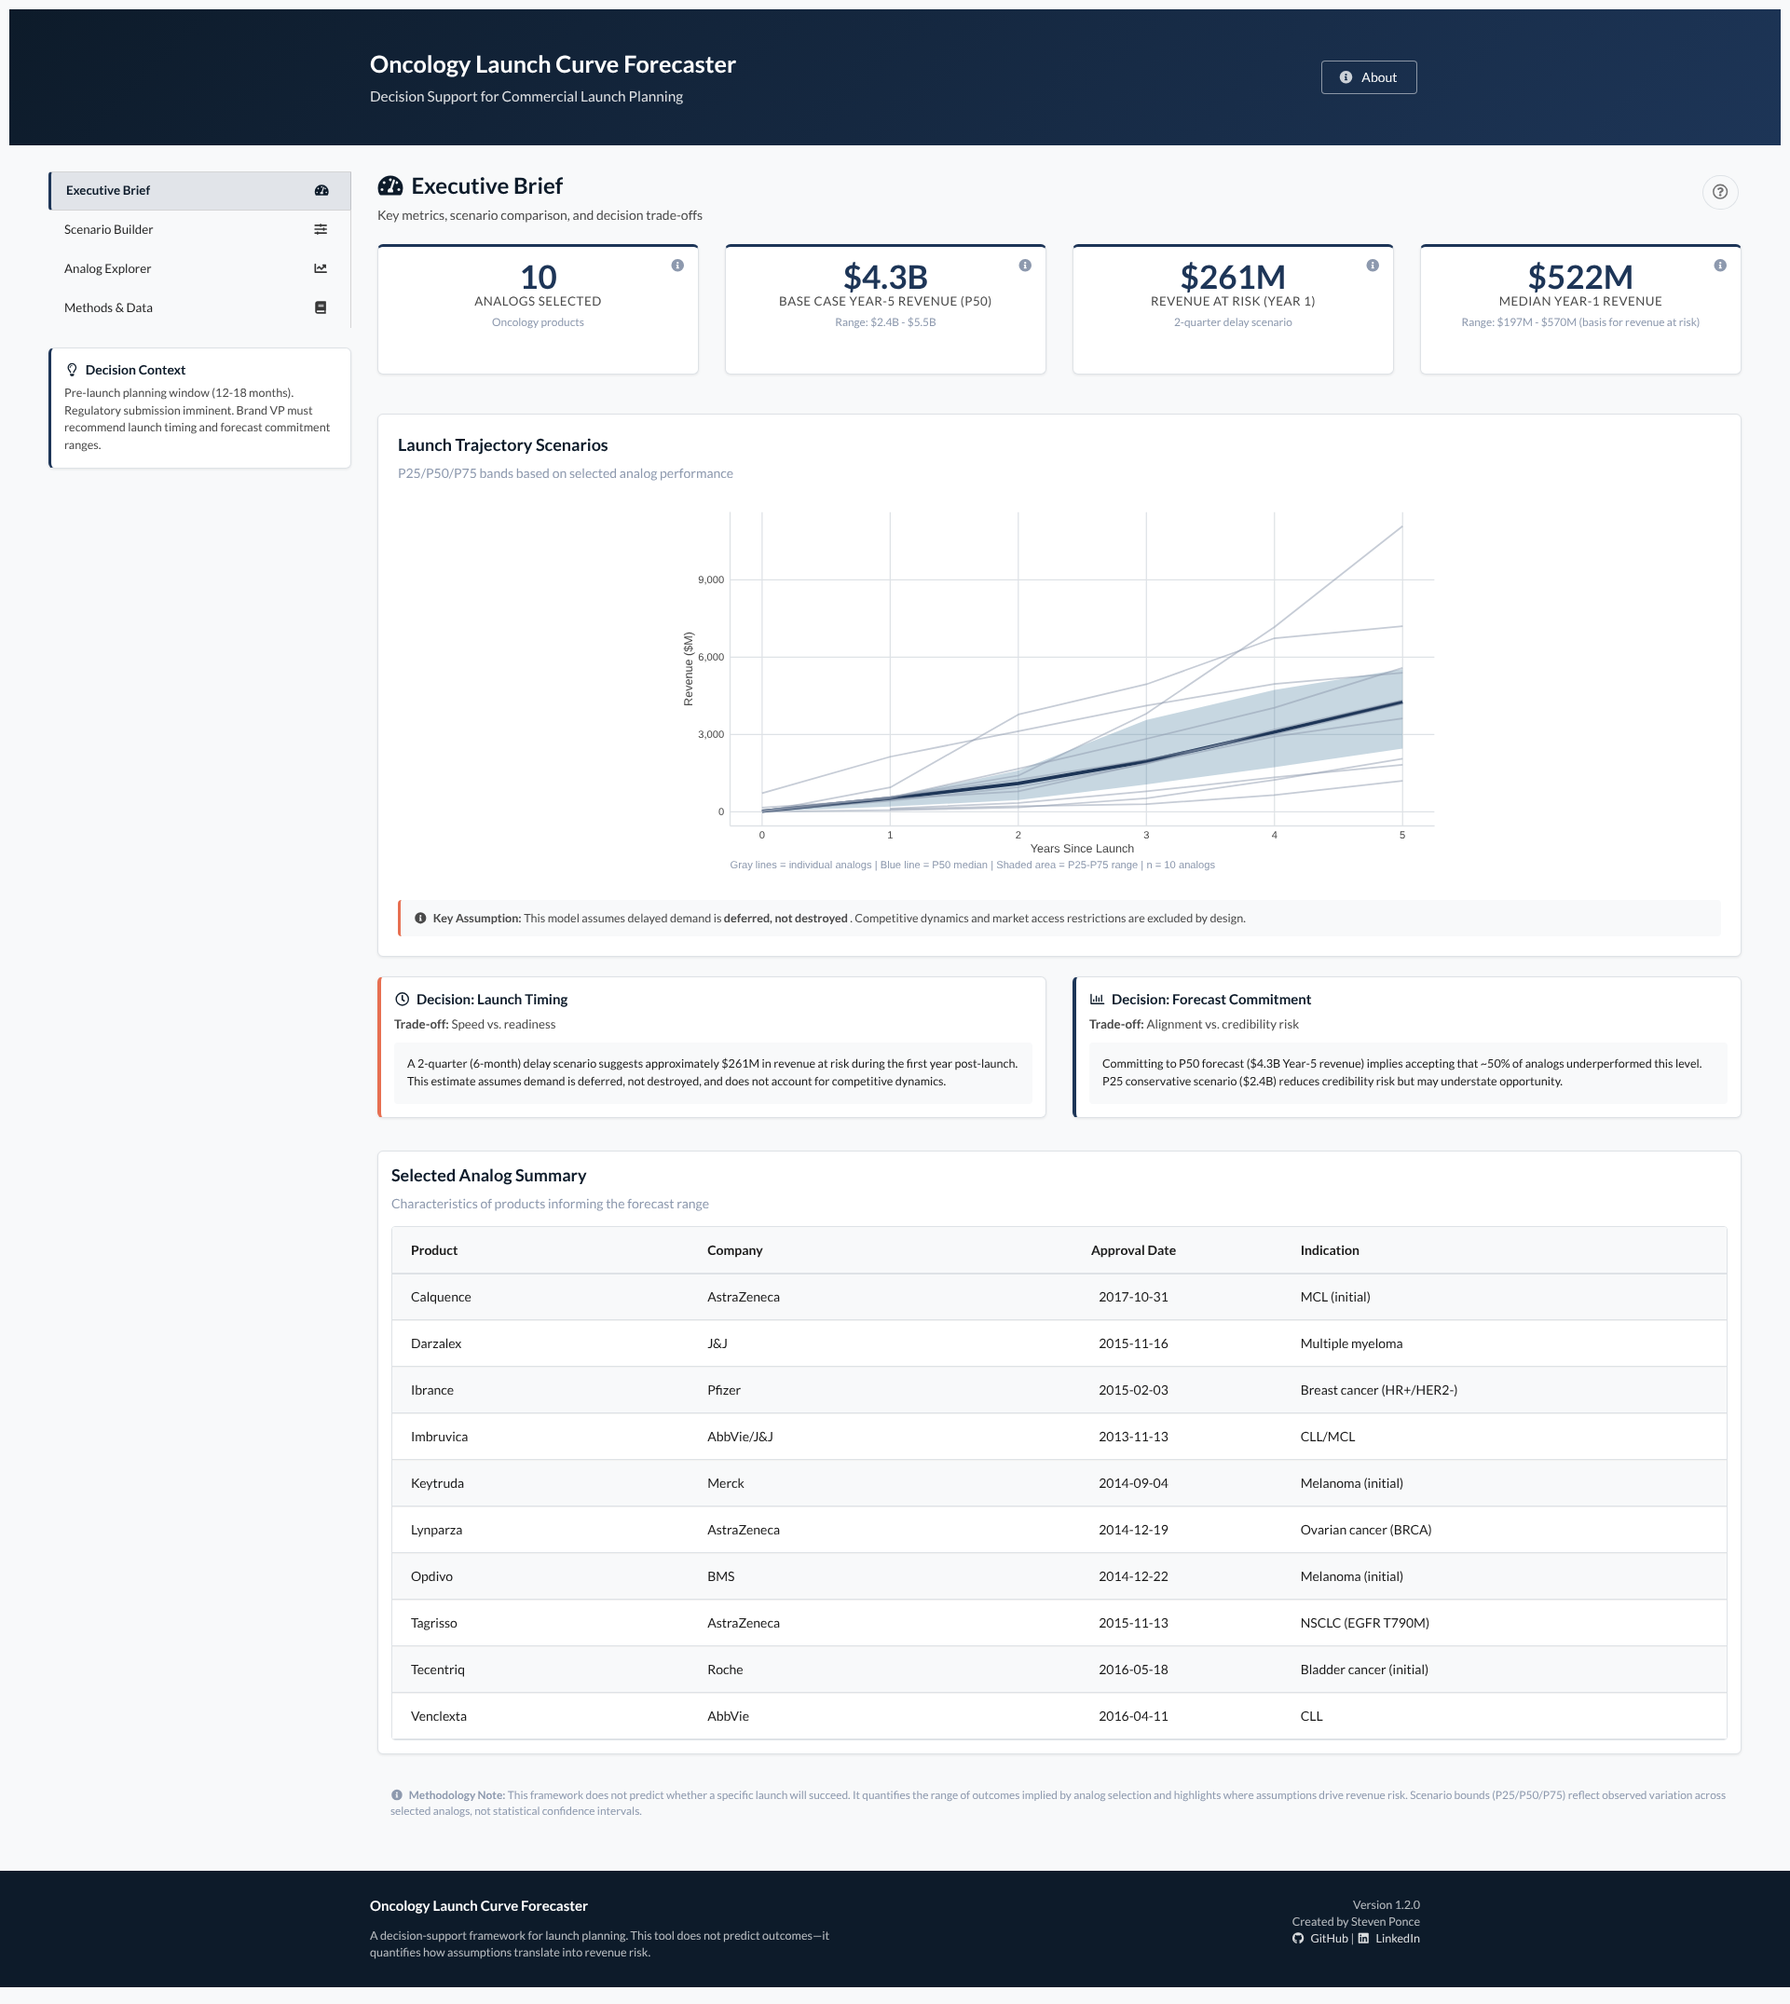
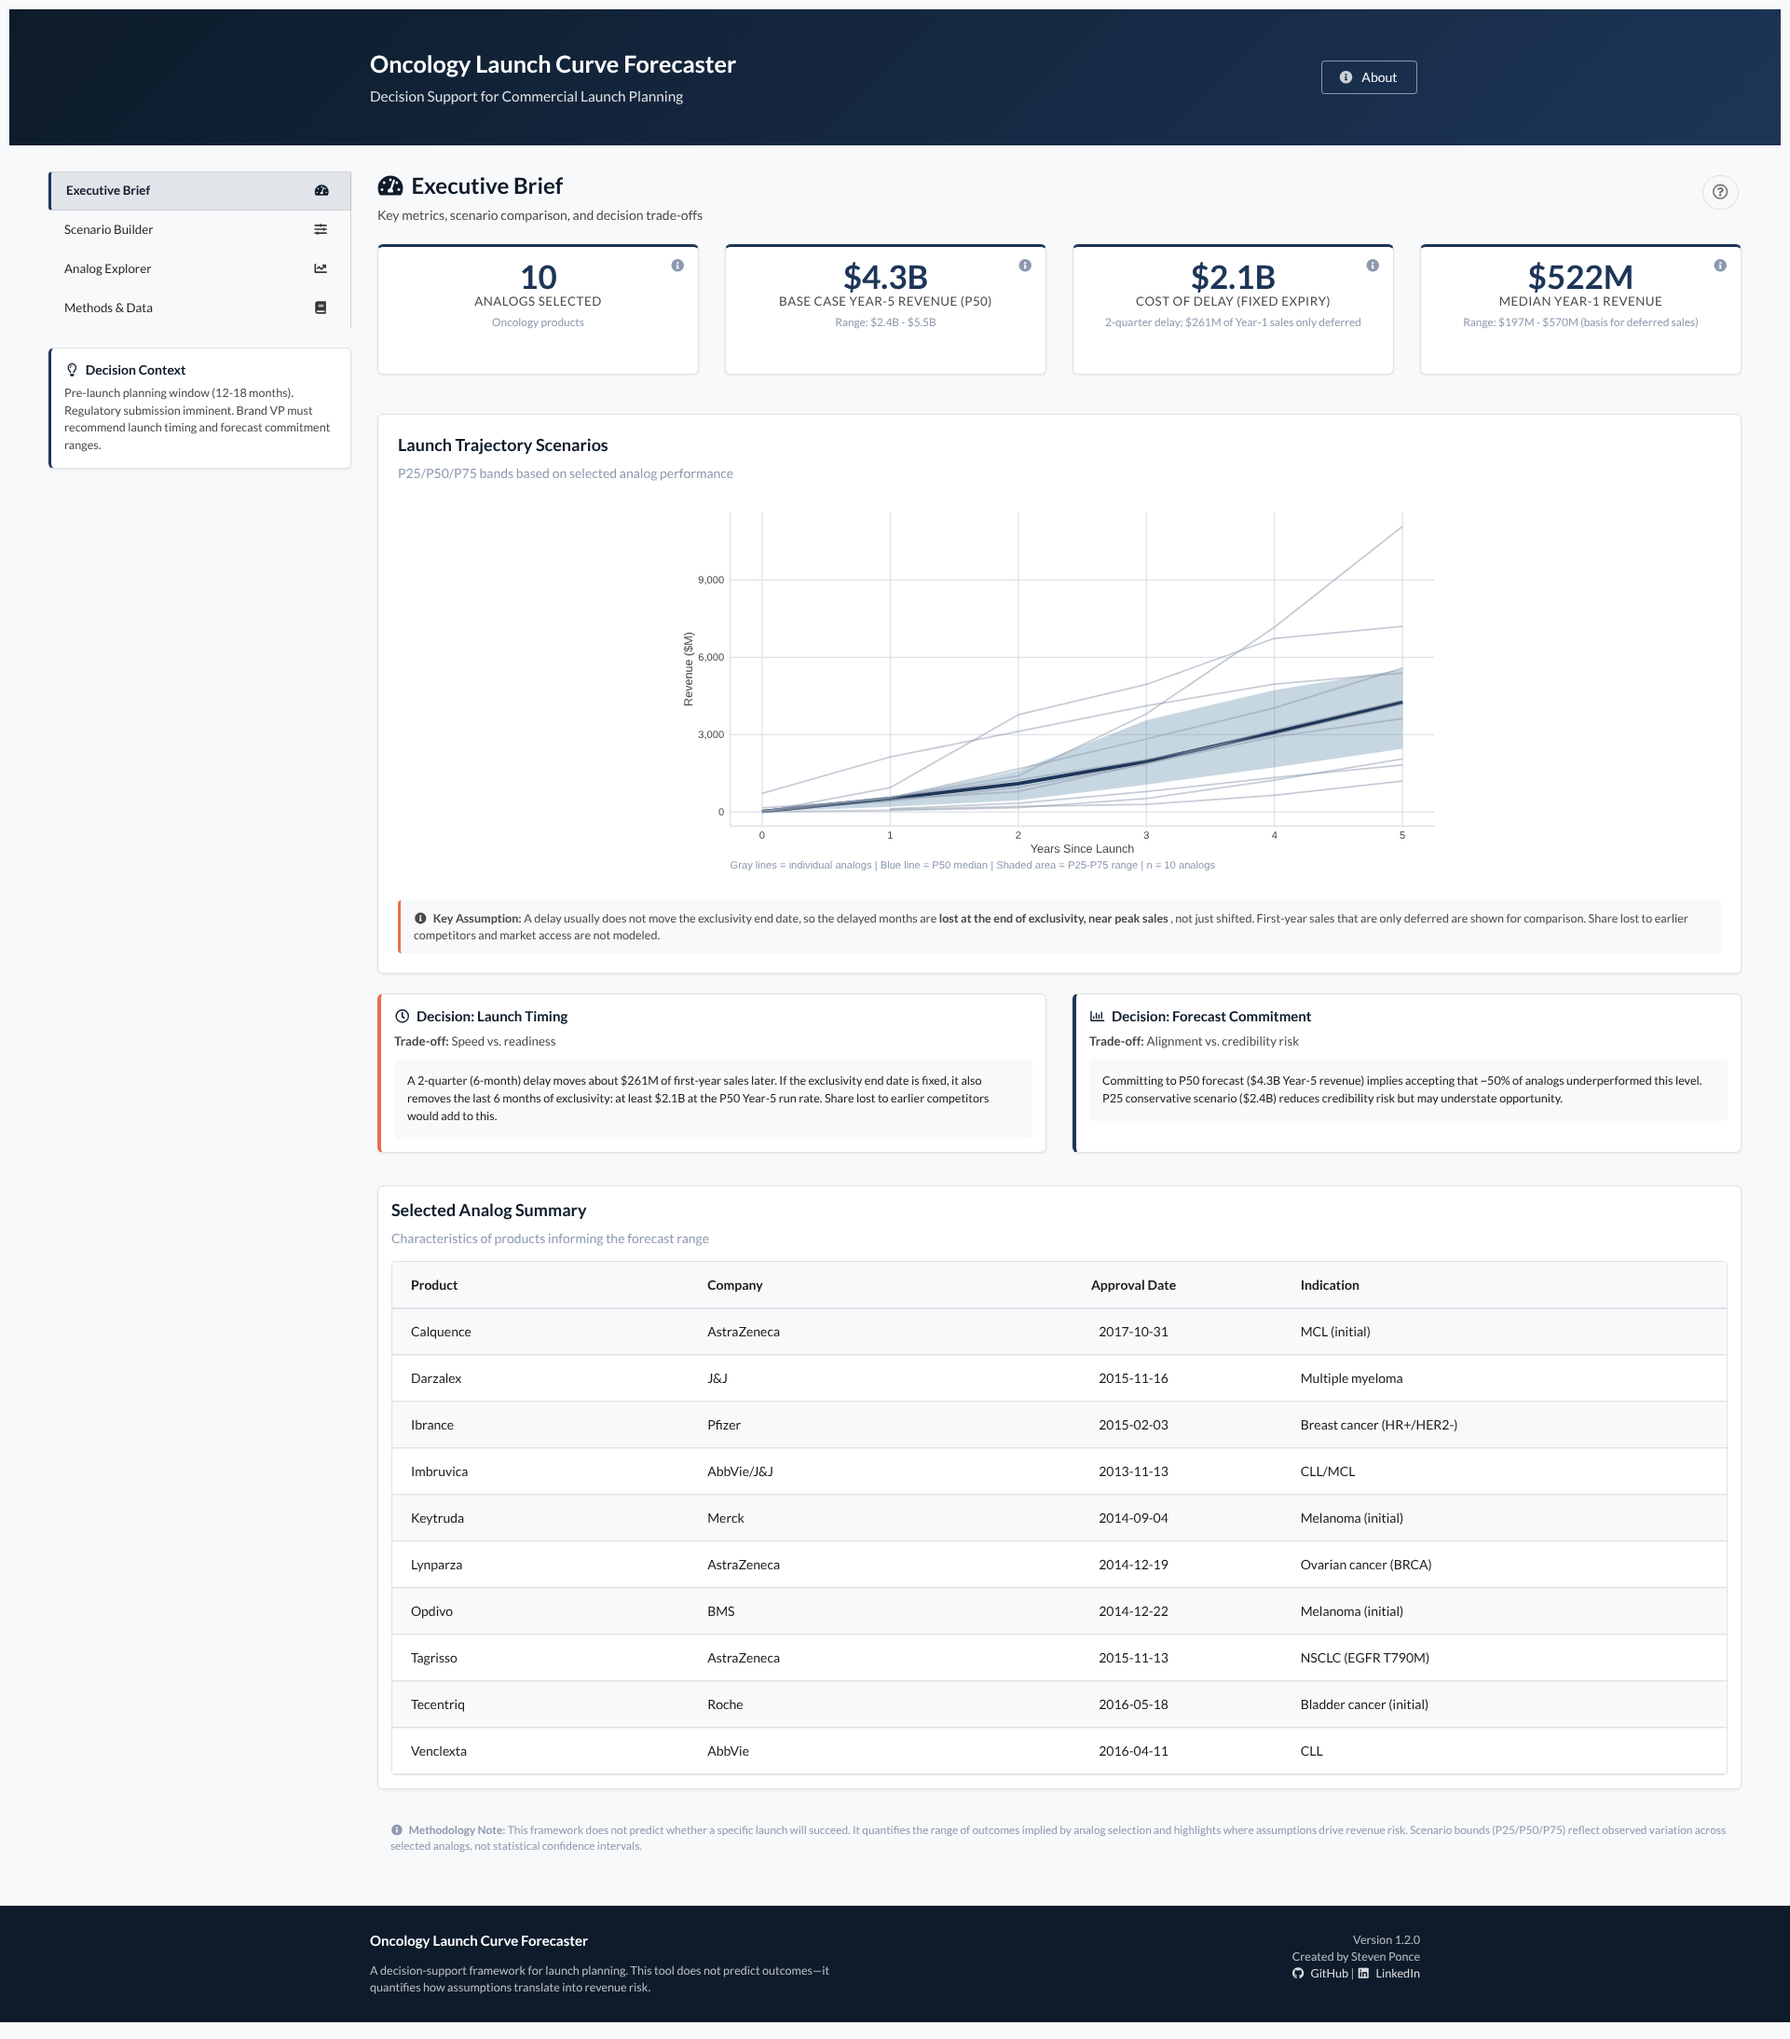
Cost of delay assumes a fixed exclusivity end date
A delay usually leaves the exclusivity end date unchanged, so delayed
months are lost at the end of exclusivity near peak sales, not just
deferred. The headline KPI and Scenario Builder now show that loss
(delay/4 x P50 Year-5 revenue, a lower bound) next to first-year sales
that are only deferred. Repeated "deferred, not destroyed" wording
replaced; README formula and contact title updated; screenshots.

Claude-Session: https://claude.ai/code/session_01PHbzNLkh3D37aanqfshCbx

diff --git a/README.md b/README.md
@@ -38,7 +38,7 @@ The framework is designed for commercial launch planning contexts where leaders 
 This framework supports that question by:
 
 -   Structuring analog-based launch scenarios using a governance-first methodology
--   Quantifying **Year 1 revenue at risk** under configurable launch delay assumptions
+-   Quantifying the **cost of a launch delay** under configurable assumptions: sales lost at the end of exclusivity when the expiry date is fixed, versus first-year sales that are only deferred
 -   Supporting P25 / P50 / P75 forecast trade-off discussions across stakeholders
 -   Documenting assumptions, exclusions, and sensitivities transparently for audit and review
 
@@ -83,7 +83,7 @@ NPV and market access modeling are excluded because they require company-specifi
 
 ### Executive Brief
 
-![Executive Brief](screenshots/executive_brief.png) *High-level summary with key metrics (analog count, Year-5 revenue range, Year 1 revenue at risk, median Year-1 revenue), scenario comparison chart, and decision framing.*
+![Executive Brief](screenshots/executive_brief.png) *High-level summary with key metrics (analog count, Year-5 revenue range, cost of delay, median Year-1 revenue), scenario comparison chart, and decision framing.*
 
 ### Scenario Builder
 
@@ -132,7 +132,8 @@ Percentile bands are derived from observed analog performance:
 ### Revenue-at-Risk Calculation
 
 ```         
-Revenue at Risk (Year 1) = delay_quarters × (median Year 1 revenue / 4)
+Lost if exclusivity end is fixed = delay_quarters / 4 × P50 Year-5 revenue   (lower bound; analogs still growing at Year 5)
+Deferred first-year sales       = delay_quarters × (median Year-1 revenue / 4)
 ```
 
 This is a **Year 1 average-quarter approximation**, explicitly labeled to match the calculation methodology.
@@ -141,7 +142,7 @@ This is a **Year 1 average-quarter approximation**, explicitly labeled to match 
 
 ## Key Assumptions Documented
 
--   **Demand deferral:** Delayed demand is deferred, not destroyed
+-   **Exclusivity:** A delay usually leaves the exclusivity end date unchanged, so delayed months are lost at the end of exclusivity; the deferred view is shown for comparison. Share lost to earlier competitors is not modeled
 -   **Label expansion bias:** Some analogs experienced post-launch indication expansion, creating potential upward bias
 -   **Era effects:** The analogs cover FDA approvals from 2013 to 2017 only; launches after 2018 face different conditions
 
@@ -211,7 +212,7 @@ The framework includes established oncology launches with disclosed product-leve
 ## Author
 
 **Steven Ponce**\
-Data Analyst \| R Shiny Developer \| Pharmaceutical Analytics
+Senior Manager, Clinical Analytics & Centralized Monitoring \| R & Shiny
 
 -   🔗 Portfolio: [stevenponce.netlify.app](https://stevenponce.netlify.app)
 -   🐙 GitHub: [\@poncest](https://github.com/poncest)
